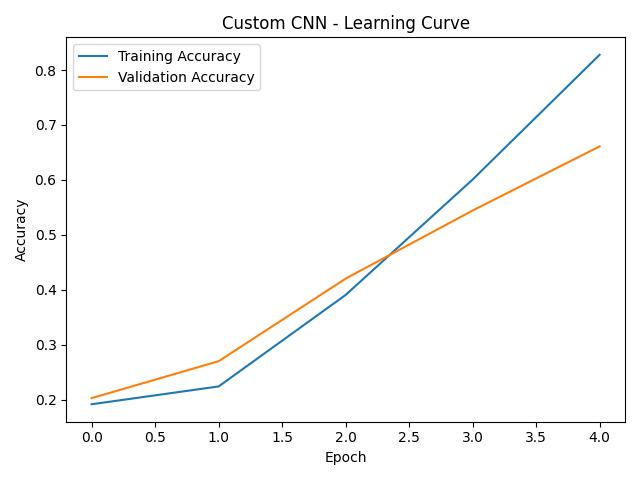
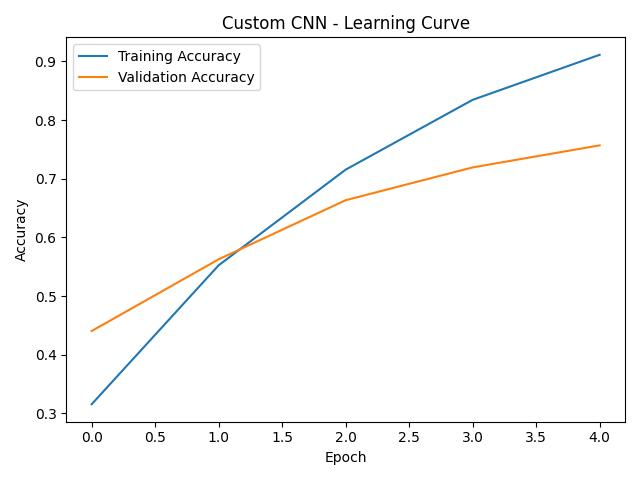
finish code

diff --git a/phil_tp3.py b/phil_tp3.py
@@ -3,7 +3,7 @@ import numpy as np
 from keras.layers import Rescaling
 from keras.applications.vgg16 import VGG16
 from keras.models import Sequential
-from keras.layers import Dense, Flatten
+from keras.layers import Dense, Flatten, Conv2D, MaxPooling2D
 from keras.optimizers import Adam
 import matplotlib.pyplot as plt
 import tensorflow as tf
@@ -64,7 +64,7 @@ show_dataset(train_ds)
 base_model = VGG16(weights='imagenet', include_top=False, input_shape=(224, 224, 3))
 base_model.trainable = False
 
-model = Sequential([
+transfert_learning_model = Sequential([
     Rescaling(scale=1.0/127.5, offset=-1),
     base_model,
     Flatten(),
@@ -76,26 +76,53 @@ model = Sequential([
 strategy = tf.distribute.MirroredStrategy()
 
 with strategy.scope():
-    model.compile(optimizer=Adam(), loss='categorical_crossentropy', metrics=['accuracy'])
+    custom_cnn_model = Sequential([
+        Conv2D(6, kernel_size=5, activation='relu', input_shape=(224, 224, 3)),
+        MaxPooling2D(pool_size=(2, 2)),
+        Conv2D(16, kernel_size=5, activation='relu'),
+        Conv2D(16, kernel_size=3, activation='relu'),
+        Flatten(),
+        Dense(units=120, activation='relu'),
+        Dense(units=84, activation='relu'),
+        Dense(num_class, activation='softmax')
+    ])
+    transfert_learning_model.compile(optimizer=Adam(), loss='categorical_crossentropy', metrics=['accuracy'])
+    custom_cnn_model.compile(optimizer=Adam(), loss='categorical_crossentropy', metrics=['accuracy'])
 
-    # Entraîner le modèle
-    model_history = model.fit(train_ds, epochs=5, validation_data=val_ds)
+    # Train the transfert learning model
+    transfert_learning_model_history = transfert_learning_model.fit(train_ds, epochs=5, validation_data=val_ds)
+    # Train the custom cnn model
+    custom_cnn_model_history = custom_cnn_model.fit(train_ds, epochs=5, validation_data=val_ds)
 
-predictions = model.predict(test_ds)
-pred_classes = np.argmax(predictions, axis=1)
+# Transfert learning
+transfert_learning_predictions = transfert_learning_model.predict(test_ds)
+transfert_learning_pred_classes = np.argmax(transfert_learning_predictions, axis=1)
 
-# Visualize the prediction
-plt.figure(figsize=(10, 10))
-for images, labels in test_ds:
-    for i in range(9):
-        ax = plt.subplot(3, 3, i+1)
-        plt.imshow(images[i].numpy().astype("uint8"))
-        index_class = np.argmax(labels[i])
-        index_prediction = np.argmax(predictions[i])
-        plt.title(f"class={class_names[index_class]}, prediction={class_names[index_prediction]}")
-        plt.axis('off')
+# Custom cnn
+custom_cnn_predictions = custom_cnn_model.predict(test_ds)
+custom_cnn_pred_classes = np.argmax(custom_cnn_predictions, axis=1)
 
-plt.show()
+# Function to visualize the prediction of the model
+def visualize_prediction(prediction, fig_name):
+    plt.figure(figsize=(10, 10))
+    for images, labels in test_ds:
+        for i in range(9):
+            ax = plt.subplot(3, 3, i+1)
+            plt.imshow(images[i].numpy().astype("uint8"))
+            index_class = np.argmax(labels[i])
+            index_prediction = np.argmax(prediction[i])
+            plt.title(f"class={class_names[index_class]}, prediction={class_names[index_prediction]}")
+            plt.axis('off')
+
+    plt.savefig(fig_name + '.jpg')
+    plt.show()
+
+
+# Visualize the transfert learning model prediction
+visualize_prediction(transfert_learning_predictions, 'transfert-learning')
+
+# Visualize the custom cnn model prediction
+visualize_prediction(custom_cnn_predictions, 'custom-cnn')
 
 # Calculate the accuracy on the test dataset
 true_classes = []
@@ -103,18 +130,25 @@ for images, labels in test_ds:
     for i in range(len(images)):
         true_classes.append(np.argmax(labels[i]))
 
-# Model statistics
-accuracy = accuracy_score(true_classes, pred_classes)
-kappa_score = cohen_kappa_score(true_classes, pred_classes)
-report = classification_report(true_classes, pred_classes)
+# Transfert learning model statistics
+transfert_learning_accuracy = accuracy_score(true_classes, transfert_learning_pred_classes)
+transfert_learning_kappa_score = cohen_kappa_score(true_classes, transfert_learning_pred_classes)
+transfert_learning_report = classification_report(true_classes, transfert_learning_pred_classes)
 
-print("Transfer Learning (VGG16) - Accuracy:", accuracy, "Kappa:", kappa_score)
-print("Transfer Learning (VGG16) Report:\n", report)
+custom_cnn_accuracy = accuracy_score(true_classes, custom_cnn_pred_classes)
+custom_cnn_kappa_score = cohen_kappa_score(true_classes, custom_cnn_pred_classes)
+custom_cnn_report = classification_report(true_classes, custom_cnn_pred_classes)
+
+print("Transfer Learning (VGG16) - Accuracy:", transfert_learning_accuracy, "Kappa:", transfert_learning_kappa_score)
+print("Transfer Learning (VGG16) Report:\n", transfert_learning_report)
+
+print("Custom CNN - Accuracy:", custom_cnn_accuracy, "Kappa:", custom_cnn_kappa_score)
+print("Custom CNN Report:\n", custom_cnn_report)
 
 # Courbe d'apprentissage du modèle de transfer learning avec VGG16
 plt.subplot(1, 1, 1)
-plt.plot(model_history.history['accuracy'], label='Training Accuracy')
-plt.plot(model_history.history['val_accuracy'], label='Validation Accuracy')
+plt.plot(transfert_learning_model_history.history['accuracy'], label='Training Accuracy')
+plt.plot(transfert_learning_model_history.history['val_accuracy'], label='Validation Accuracy')
 plt.title('Transfer Learning (VGG16) - Learning Curve')
 plt.xlabel('Epoch')
 plt.ylabel('Accuracy')
@@ -122,4 +156,17 @@ plt.legend()
 
 plt.tight_layout()
 plt.savefig('TransfertLearning.jpg')
+plt.show()
+
+# Courbe d'apprentissage du modèle de transfer learning avec VGG16
+plt.subplot(1, 1, 1)
+plt.plot(custom_cnn_model_history.history['accuracy'], label='Training Accuracy')
+plt.plot(custom_cnn_model_history.history['val_accuracy'], label='Validation Accuracy')
+plt.title('Custom CNN - Learning Curve')
+plt.xlabel('Epoch')
+plt.ylabel('Accuracy')
+plt.legend()
+
+plt.tight_layout()
+plt.savefig('CustomCNN.jpg')
 plt.show()
